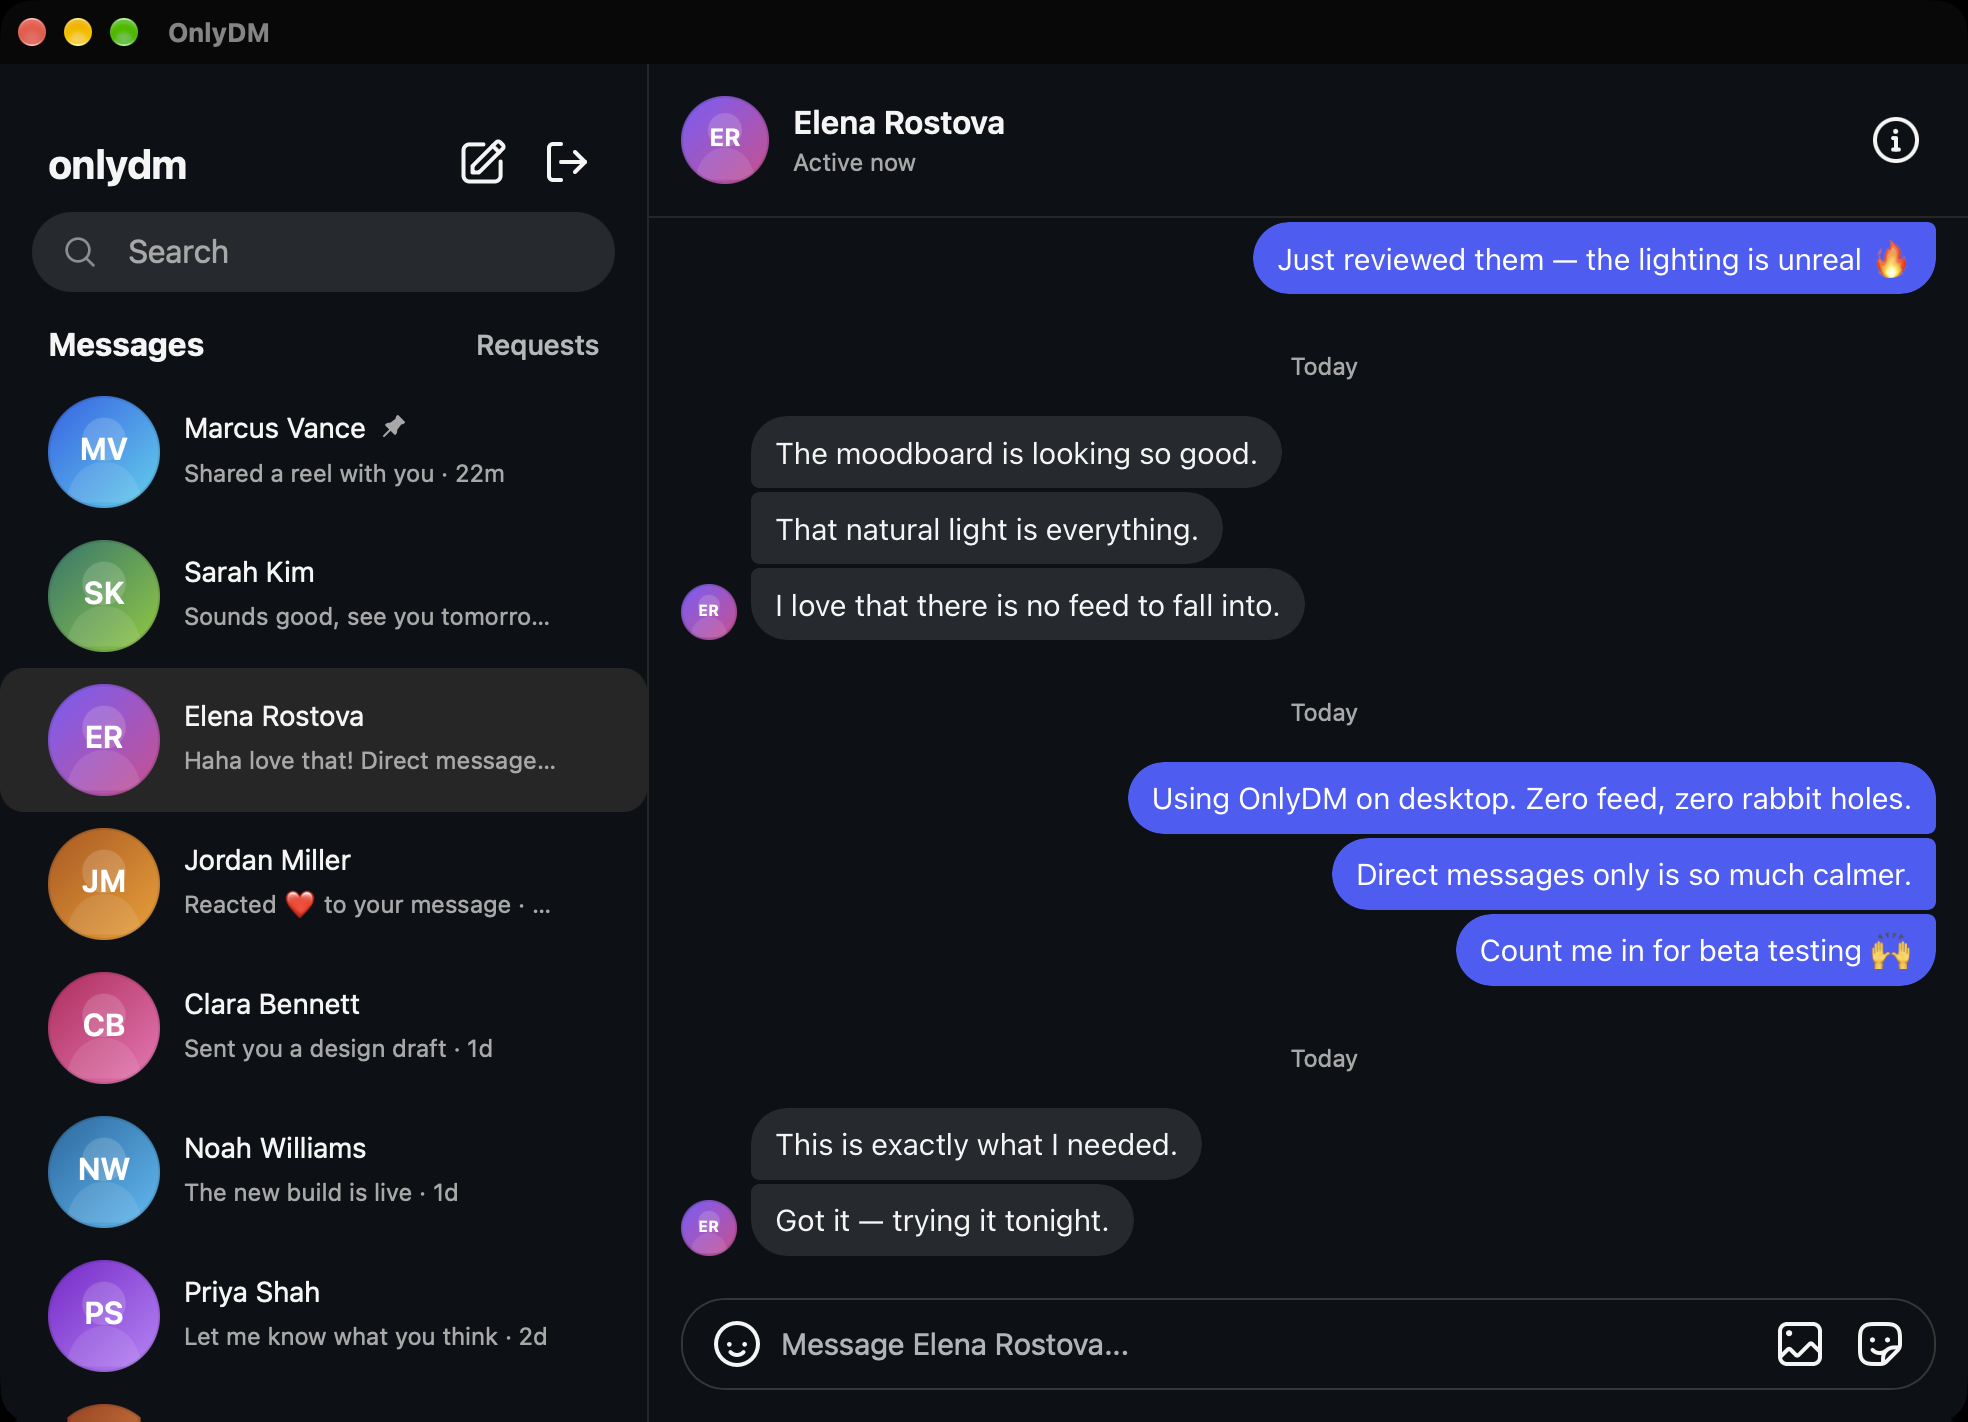
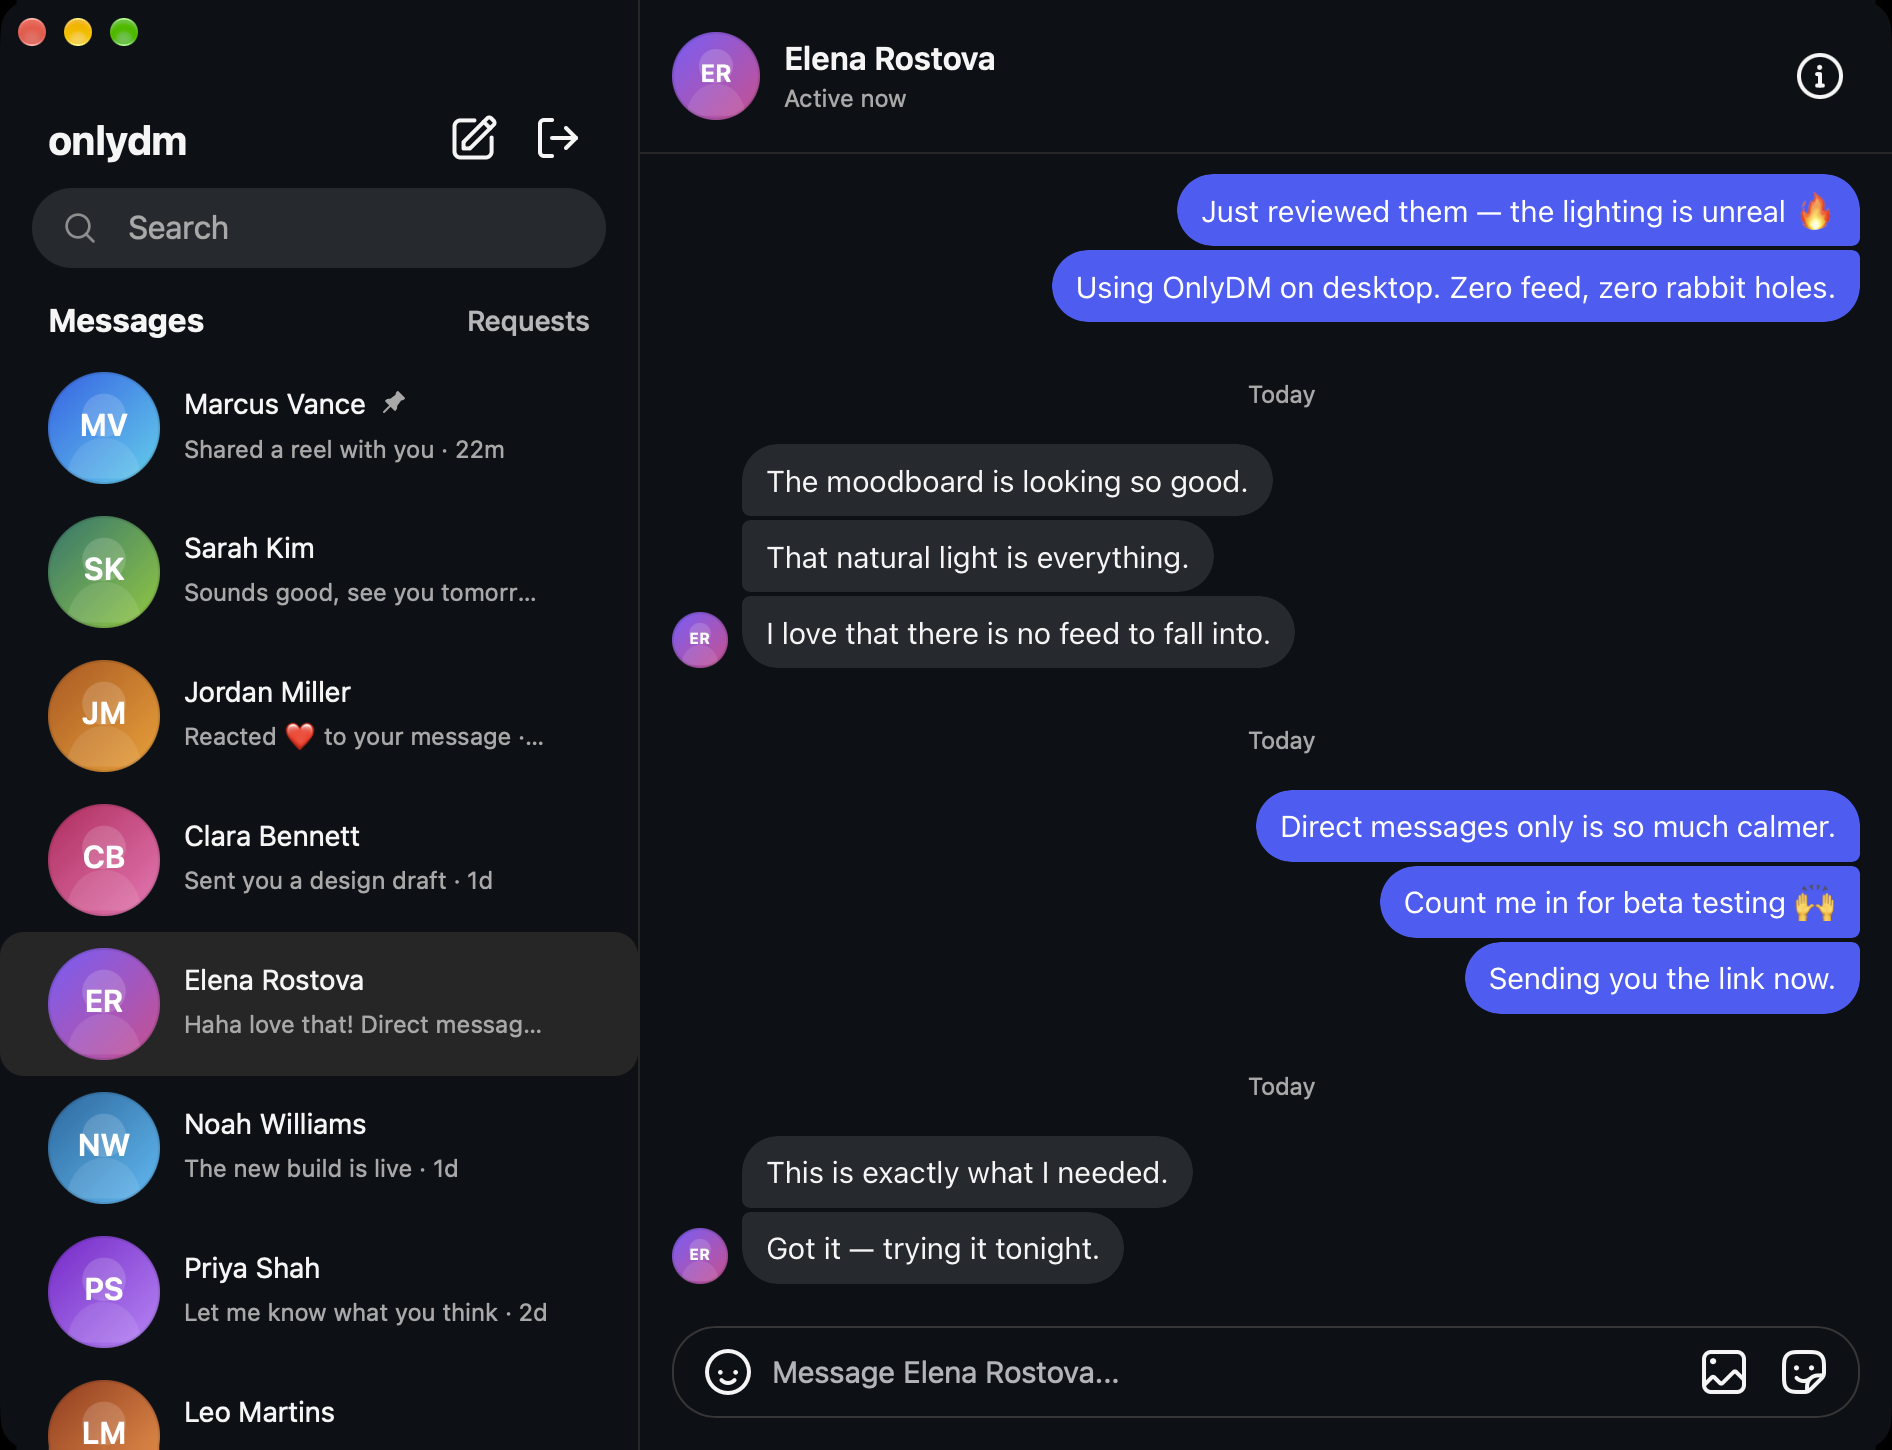
chore(landing): refresh app screenshot

diff --git a/landing/index.html b/landing/index.html
@@ -1242,7 +1242,7 @@
         <div class="screenshot-frame">
           <picture>
             <source srcset="assets/screenshot.webp" type="image/webp" />
-            <img src="assets/screenshot.png" width="1968" height="1422" alt="OnlyDM macOS app showing a direct message conversation with sample contacts" class="screenshot-img" decoding="async" />
+            <img src="assets/screenshot.png" width="1892" height="1450" alt="OnlyDM macOS app showing a direct message conversation with sample contacts" class="screenshot-img" decoding="async" />
           </picture>
         </div>
       </div>
